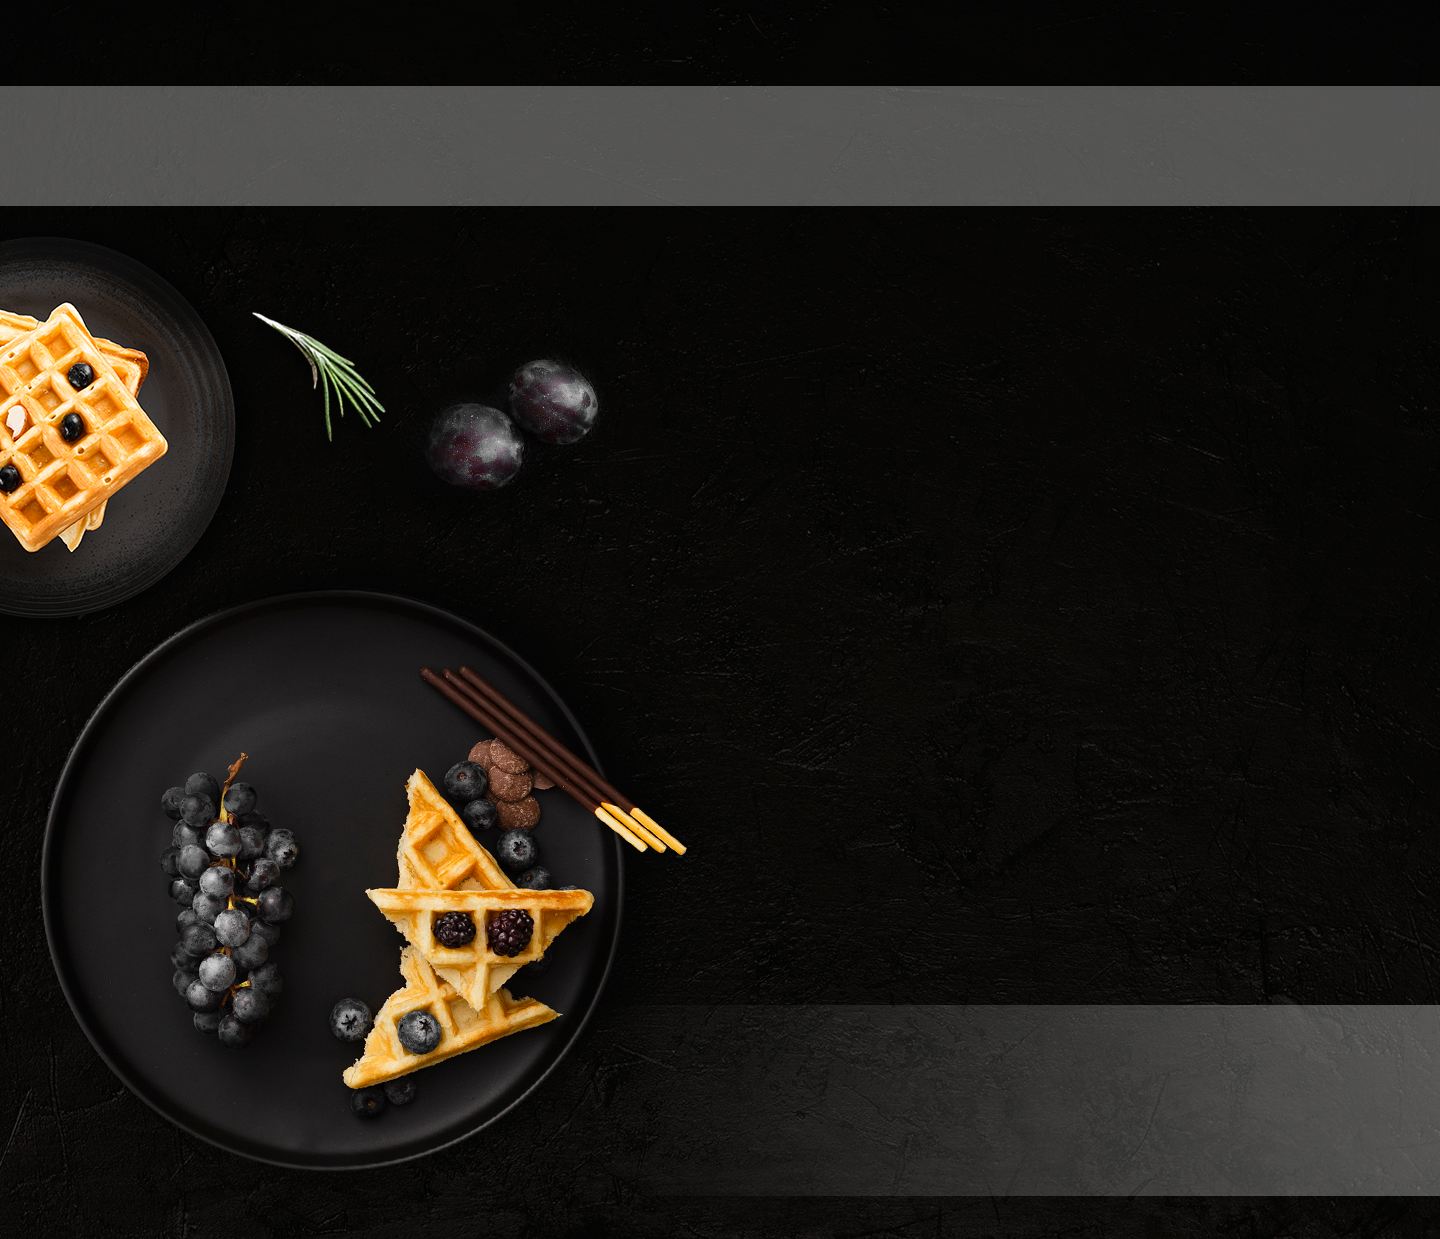
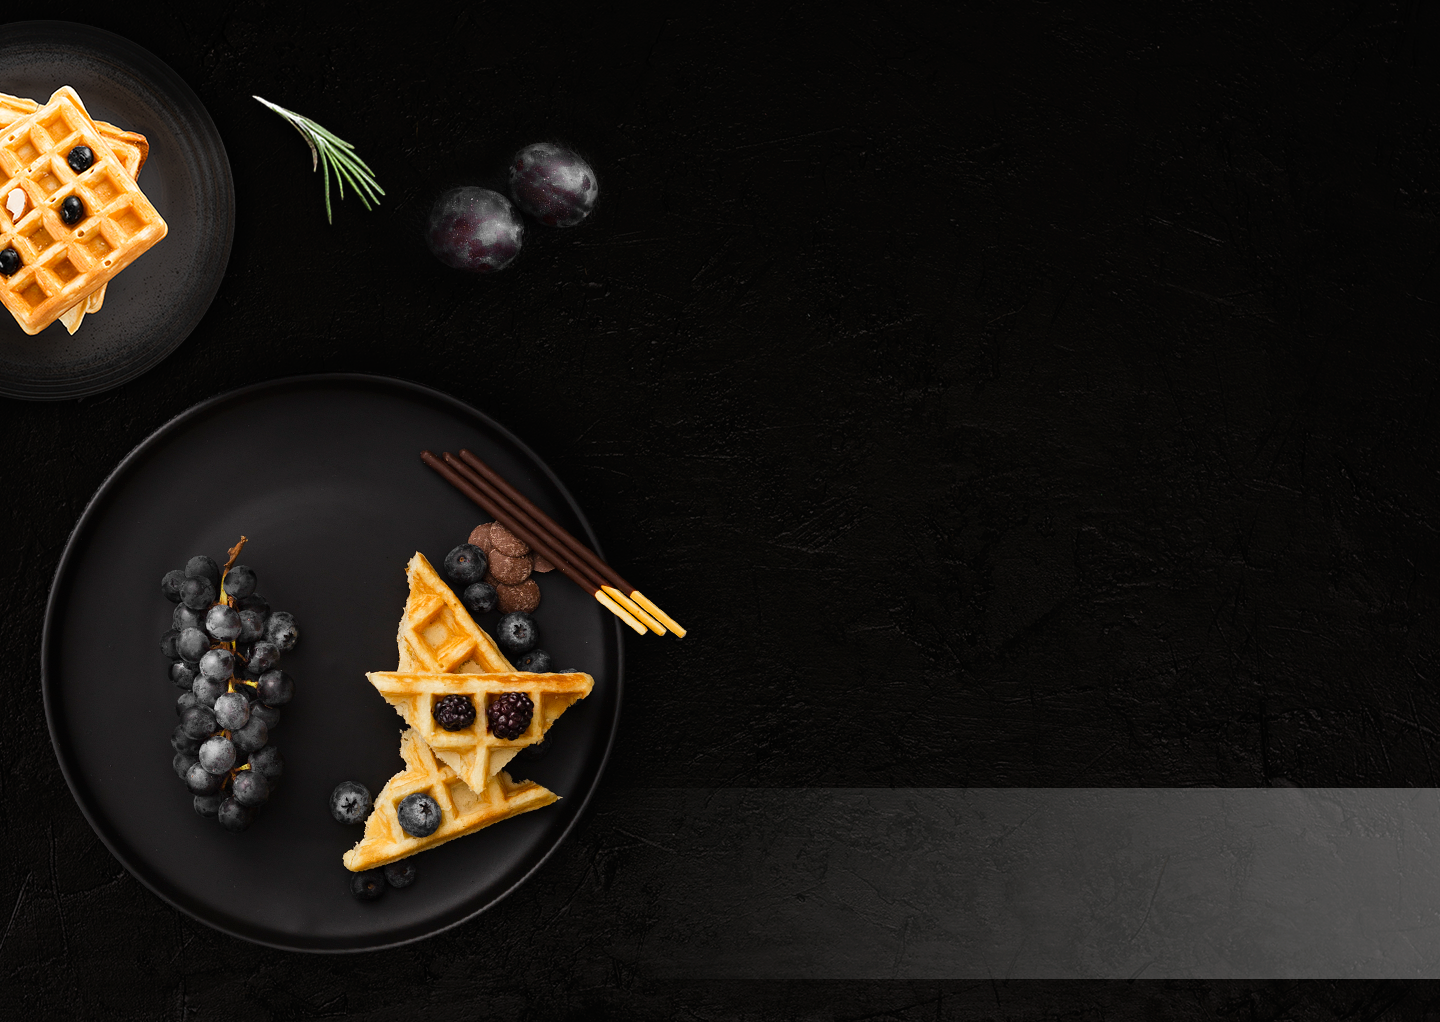
update header

diff --git a/css/style.css b/css/style.css
@@ -23,19 +23,33 @@ ul li{
 	margin: 0px 0px;
 }
 /*header section css start*/
-.header-section{
+
+
+
+
+.header-top-bar{
+    background: black;
+    width: 100%;
+    height: 35px;
+}
+
+
+
+
+/*.header-section{
 	width: 100%;
 	background: url(../images/header-bg.png) left center no-repeat;
 	background-size: cover;
-}
+}*/
 .header-section .navbar-brand img{
-	width: 100%;
+    width: 100%;
+    height: 50px;
 }
 .header-section .bg-light {
-    background-color: transparent!important;
+    background-color: #545453 !important
 }
 .header-section .navbar-collapse {
-    padding: 95px 0px 0px 0px;
+/*    padding: 95px 0px 0px 0px;*/
 }
 .header-section .navbar-light .navbar-nav .nav-link.active,
 .navbar-light .navbar-nav .show>.nav-link {
@@ -47,46 +61,93 @@ ul li{
     text-transform: uppercase;
     font-weight: 600;
     padding: 0px 25px;
-    margin-top: 30px;
+    margin-top: 15px;
 }
 .header-section .navbar-light .navbar-nav .nav-link:hover{
 	color: #ffc901;
 	cursor: pointer;
 	transition: .3s linear;
 }
-.header-section .header-inner {
+/*.header-section .header-inner {
     width: 100%;
     text-align: right;
     padding: 372px 0px 85px 0px;
-}
-.header-section .header-inner h1 {
+}*/
+/*.header-section .header-inner h1 {
     color: #fff;
     text-transform: uppercase;
     font-size: 36px;
     font-weight: 600;
-}
-.header-section .header-inner h2 {
+}*/
+/*.header-section .header-inner h2 {
     color: #ffc901;
     font-size: 23px;
     text-transform: uppercase;
     font-weight: 500;
     padding-bottom: 70px;
-}
-.header-section .header-inner h3 {
+}*/
+/*.header-section .header-inner h3 {
     color: #fff;
     text-transform: uppercase;
     font-size: 33px;
     font-weight: 400;
     padding-top: 150px;
+}*/
+/*.header-section .header-inner span{
+    color: #ffc901;
+}*/
+/*header section css end*/
+
+
+
+
+/*banner section css start*/
+.banner-section {
+    background: url(../images/header-bg.png) left bottom no-repeat;
+    background-size: cover;
+    height: 100vh;
+    padding-top: 127px;
 }
-.header-section .header-inner span{
+.banner-section .banner-inner {
+    width: 100%;
+    text-align: right;
+    padding: 100px 0px 0px 0px;
+}
+.banner-section .banner-inner h1 {
+    color: #fff;
+    text-transform: uppercase;
+    font-size: 36px;
+    font-weight: 600;
+}
+.banner-section .banner-inner h2 {
+    color: #ffc901;
+    font-size: 23px;
+    text-transform: uppercase;
+    font-weight: 500;
+    padding-bottom: 35px;
+}
+.banner-section .banner-inner h3 {
+    color: #fff;
+    text-transform: uppercase;
+    font-size: 33px;
+    font-weight: 400;
+    padding-top: 97px;
+}
+.banner-section .banner-inner span{
     color: #ffc901;
 }
-/*header section css end*/
+/*banner section css end*/
+
+
+
+
+
+
+
 /*about section css start*/
 .about-section{
     width: 100%;
-    background: url(../images/about-bg.png) left center no-repeat;
+    background: url(../images/about-bg.png) left bottom no-repeat;
     background-size: cover;
 }
 .about-section .about-inner {

diff --git a/index.html b/index.html
@@ -17,8 +17,11 @@
 		<link rel="stylesheet" type="text/css" href="css/style.css">
 	</head>
 	<body>
+		<section class="header-top-bar">
+			
+		</section>
 		<!-- header section code start -->
-		<header class="header-section">
+		<header class="header-section sticky-top">
 			<nav class="navbar navbar-expand-lg navbar-light bg-light">
 			  <div class="container">
 			    <button class="navbar-toggler" type="button" data-bs-toggle="collapse" data-bs-target="#navbarSupportedContent" aria-controls="navbarSupportedContent" aria-expanded="false" aria-label="Toggle navigation">
@@ -36,7 +39,7 @@
 			          <a class="nav-link" href="#">Gallery</a>
 			        </li>
 			        <li class="nav-item">
-			          	<a class="navbar-brand" href="#">
+			          	<a class="navbar-brand" href="">
 			          		<img src="images/header-logo.png">
 			          	</a>
 			        </li>
@@ -53,7 +56,7 @@
 			    </div>
 			  </div>
 			</nav>
-			<div class="container">
+			<!-- <div class="container">
 				<div class="row">
 					<div class="col-12">
 						<div class="header-inner">
@@ -64,9 +67,26 @@
 						</div>
 					</div>
 				</div>
-			</div>
+			</div> -->
 		</header>
 		<!-- header section code end -->
+
+
+		<!-- banner section code start -->
+		<section class="banner-section">
+			<div class="container">
+				<div class="col-12">
+					<div class="banner-inner">
+						<h1>Start Your Meal With<br>Our Exclusive Menu</h1>
+						<h2>Learn more...</h2>
+						<img src="images/header-logo.png">
+						<h3>book your<br>table <span>Now</span></h3>
+					</div>
+				</div>
+			</div>
+		</section>
+		<!-- banner section code end -->
+
 		<!-- about section code start -->
 		<section class="about-section">
 			<div class="container">
